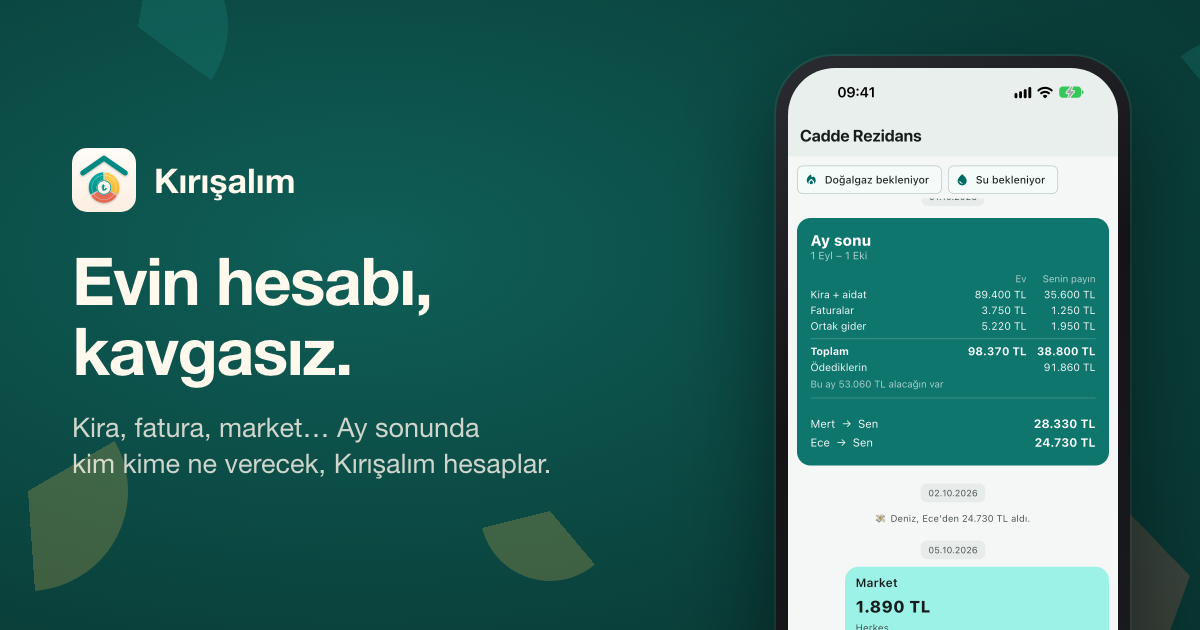
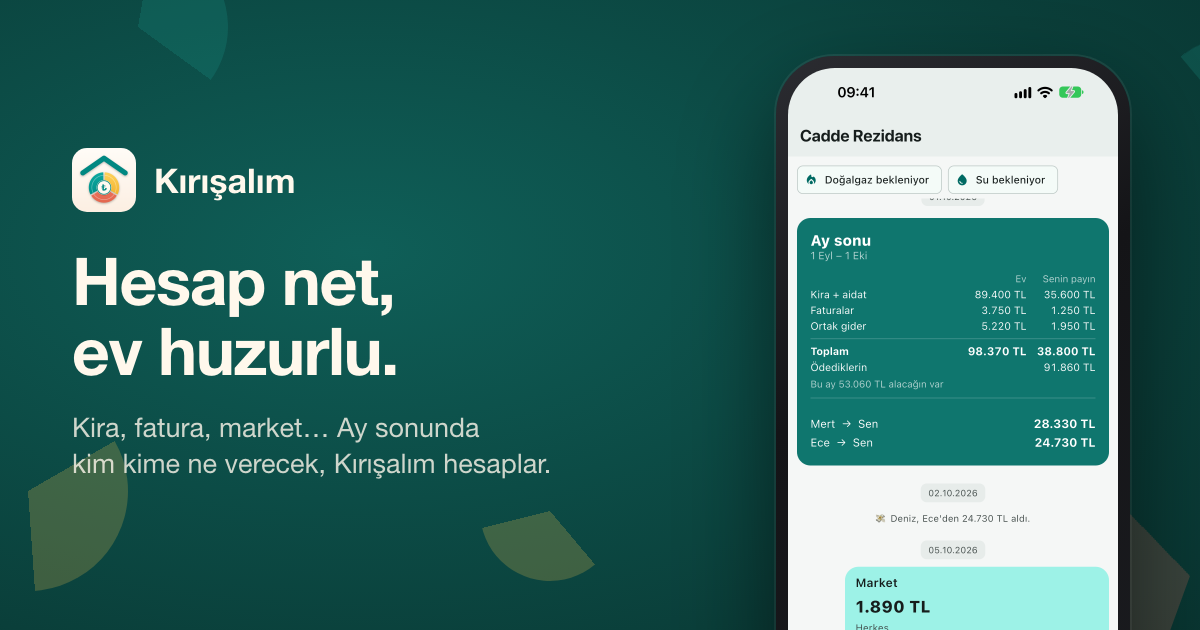
Site: sync from the app repository (7d480a8)

Changed region(s): [[0.0617, 0.3921, 0.37, 0.5127], [0.0617, 0.5127, 0.3392, 0.6333]]

diff --git a/index.html b/index.html
@@ -31,7 +31,7 @@
 <div class="wrap hero">
   <div>
     <img class="icon" src="img/icon.png" alt="Kırışalım simgesi">
-    <h1>Evin hesabı, kavgasız.</h1>
+    <h1>Hesap net, ev huzurlu.</h1>
     <p class="lede">Kira, faturalar, market… Ay sonunda kim kime ne verecek, Kırışalım hesaplar. Ev arkadaşları, öğrenciler, yurt odaları — aynı çatı altında para bölüşen herkes için.</p>
     <div class="btns">
       <a class="btn" href="https://testflight.apple.com/join/q9A7ay5w">iPhone'da dene (TestFlight)</a>
